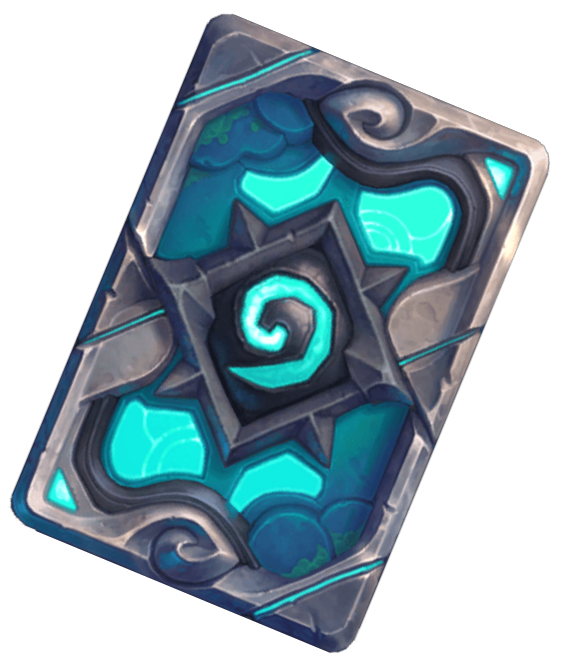
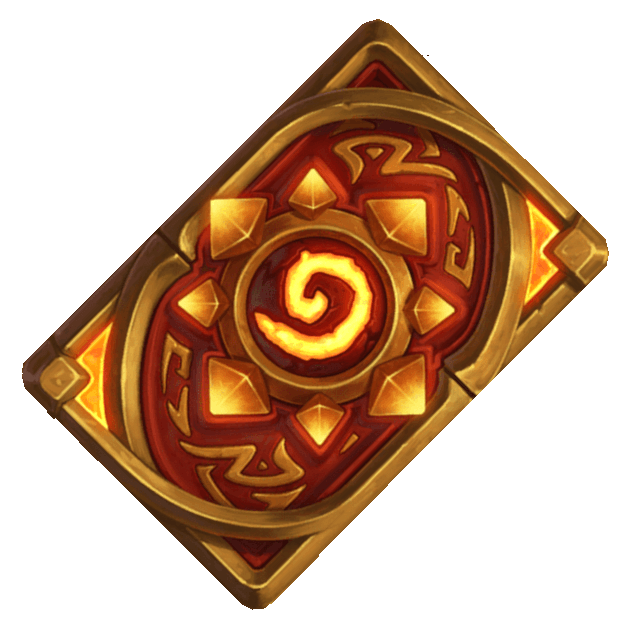
set inputs to min=0 and changed cardbacks

diff --git a/src/Pages/customBattle.js b/src/Pages/customBattle.js
@@ -17,7 +17,7 @@ function CustomBattle() {
     const [customResult, setCustomResult] = useState('');
     const [isEmpty, setisEmpty] = useState(true);
     const [isLoading, setLoading] = useState(true);
-    const cardback = [{ "img": "https://d15f34w2p8l1cc.cloudfront.net/hearthstone/a56562dad5da22c759f74601fe4d7d4ca1089577d5c837752ec13248b0ecb68c.png" }]
+    const cardback = [{ "img": "https://d15f34w2p8l1cc.cloudfront.net/hearthstone/6c7389262b8a7057aafcf8d75e55f452250ccd8b4e2dfcfd01f1aa8f5f21b17d.png" }]
 
     useEffect(() => {
         fetch(cards, {
@@ -28,7 +28,7 @@ function CustomBattle() {
                 setCards(data);
                 setLoading(false);
                 setCard3(cardback)
-                setcustomCard({ "img": "https://d15f34w2p8l1cc.cloudfront.net/hearthstone/a56562dad5da22c759f74601fe4d7d4ca1089577d5c837752ec13248b0ecb68c.png" })
+                setcustomCard({ "img": "https://d15f34w2p8l1cc.cloudfront.net/hearthstone/6c7389262b8a7057aafcf8d75e55f452250ccd8b4e2dfcfd01f1aa8f5f21b17d.png" })
             });
     }, []);
 
@@ -118,9 +118,9 @@ function CustomBattle() {
                         <div class="card-container">
                             <div class="input-container">
                                 <div>Attack</div>
-                                <input class="ca-input-boxes" id="attack" type="number" value={attackInput.value} onChange={(e) => handleAttack(e)} />
+                                <input min='0' class="ca-input-boxes" id="attack" type="number" value={attackInput.value} onChange={(e) => handleAttack(e)} />
                                 <div>Health</div>
-                                <input class="ca-input-boxes" id="health" type="number" value={healthInput.value} onChange={(e) => handleHealth(e)} />
+                                <input min='0' class="ca-input-boxes" id="health" type="number" value={healthInput.value} onChange={(e) => handleHealth(e)} />
                             </div>
 
                             <div class="textbox-space">

diff --git a/src/Pages/Battle.js b/src/Pages/Battle.js
@@ -14,7 +14,7 @@ function Battle() {
   const [Result, setResult] = useState('');
   const [isLoading, setLoading] = useState(true);
   const [isEmpty, setisEmpty] = useState(true);
-  const cardback = [{ "img": "https://d15f34w2p8l1cc.cloudfront.net/hearthstone/a56562dad5da22c759f74601fe4d7d4ca1089577d5c837752ec13248b0ecb68c.png" }]
+  const cardback = [{ "img": "https://d15f34w2p8l1cc.cloudfront.net/hearthstone/6c7389262b8a7057aafcf8d75e55f452250ccd8b4e2dfcfd01f1aa8f5f21b17d.png" }]
 
 
   useEffect(() => {
